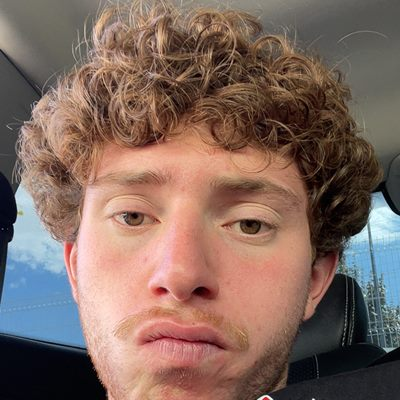
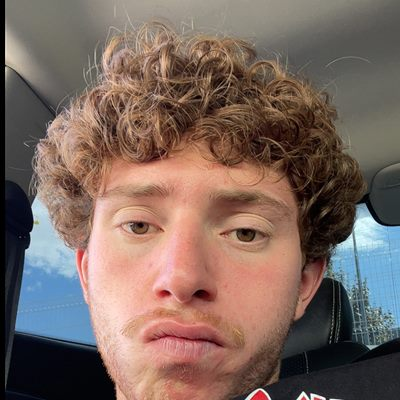
Portrait recadré : menton visible

diff --git a/index.html b/index.html
@@ -30,12 +30,12 @@
   <link rel="icon" href="assets/img/favicon-32.png" sizes="32x32" type="image/png">
   <link rel="apple-touch-icon" href="assets/img/apple-touch-icon.png">
   <link rel="preload" href="assets/fonts/sora-latin-wght-normal.woff2" as="font" type="font/woff2" crossorigin>
-  <link rel="stylesheet" href="assets/css/style.css?v=202610171535">
-  <script src="assets/js/config.js?v=202610171535" defer></script>
-  <script src="assets/js/lang/fr.js?v=202610171535" defer></script>
-  <script src="assets/js/i18n.js?v=202610171535" defer></script>
-  <script src="assets/js/consent.js?v=202610171535" defer></script>
-  <script src="assets/js/main.js?v=202610171535" defer></script>
+  <link rel="stylesheet" href="assets/css/style.css?v=202610171541">
+  <script src="assets/js/config.js?v=202610171541" defer></script>
+  <script src="assets/js/lang/fr.js?v=202610171541" defer></script>
+  <script src="assets/js/i18n.js?v=202610171541" defer></script>
+  <script src="assets/js/consent.js?v=202610171541" defer></script>
+  <script src="assets/js/main.js?v=202610171541" defer></script>
 </head>
 <body data-page="index">
   <a class="skip-link" href="#contenu" data-i18n="skip">Aller au contenu</a>

diff --git a/mentions-legales.html b/mentions-legales.html
@@ -12,12 +12,12 @@
   <link rel="icon" href="assets/img/favicon.svg" type="image/svg+xml">
   <link rel="icon" href="assets/img/favicon-32.png" sizes="32x32" type="image/png">
   <link rel="apple-touch-icon" href="assets/img/apple-touch-icon.png">
-  <link rel="stylesheet" href="assets/css/style.css?v=202610171535">
-  <script src="assets/js/config.js?v=202610171535" defer></script>
-  <script src="assets/js/lang/fr.js?v=202610171535" defer></script>
-  <script src="assets/js/i18n.js?v=202610171535" defer></script>
-  <script src="assets/js/consent.js?v=202610171535" defer></script>
-  <script src="assets/js/main.js?v=202610171535" defer></script>
+  <link rel="stylesheet" href="assets/css/style.css?v=202610171541">
+  <script src="assets/js/config.js?v=202610171541" defer></script>
+  <script src="assets/js/lang/fr.js?v=202610171541" defer></script>
+  <script src="assets/js/i18n.js?v=202610171541" defer></script>
+  <script src="assets/js/consent.js?v=202610171541" defer></script>
+  <script src="assets/js/main.js?v=202610171541" defer></script>
 </head>
 <body data-page="mentions">
   <a class="skip-link" href="#contenu" data-i18n="skip">Aller au contenu</a>

diff --git a/confidentialite.html b/confidentialite.html
@@ -12,12 +12,12 @@
   <link rel="icon" href="assets/img/favicon.svg" type="image/svg+xml">
   <link rel="icon" href="assets/img/favicon-32.png" sizes="32x32" type="image/png">
   <link rel="apple-touch-icon" href="assets/img/apple-touch-icon.png">
-  <link rel="stylesheet" href="assets/css/style.css?v=202610171535">
-  <script src="assets/js/config.js?v=202610171535" defer></script>
-  <script src="assets/js/lang/fr.js?v=202610171535" defer></script>
-  <script src="assets/js/i18n.js?v=202610171535" defer></script>
-  <script src="assets/js/consent.js?v=202610171535" defer></script>
-  <script src="assets/js/main.js?v=202610171535" defer></script>
+  <link rel="stylesheet" href="assets/css/style.css?v=202610171541">
+  <script src="assets/js/config.js?v=202610171541" defer></script>
+  <script src="assets/js/lang/fr.js?v=202610171541" defer></script>
+  <script src="assets/js/i18n.js?v=202610171541" defer></script>
+  <script src="assets/js/consent.js?v=202610171541" defer></script>
+  <script src="assets/js/main.js?v=202610171541" defer></script>
 </head>
 <body data-page="privacy">
   <a class="skip-link" href="#contenu" data-i18n="skip">Aller au contenu</a>

diff --git a/cookies.html b/cookies.html
@@ -12,12 +12,12 @@
   <link rel="icon" href="assets/img/favicon.svg" type="image/svg+xml">
   <link rel="icon" href="assets/img/favicon-32.png" sizes="32x32" type="image/png">
   <link rel="apple-touch-icon" href="assets/img/apple-touch-icon.png">
-  <link rel="stylesheet" href="assets/css/style.css?v=202610171535">
-  <script src="assets/js/config.js?v=202610171535" defer></script>
-  <script src="assets/js/lang/fr.js?v=202610171535" defer></script>
-  <script src="assets/js/i18n.js?v=202610171535" defer></script>
-  <script src="assets/js/consent.js?v=202610171535" defer></script>
-  <script src="assets/js/main.js?v=202610171535" defer></script>
+  <link rel="stylesheet" href="assets/css/style.css?v=202610171541">
+  <script src="assets/js/config.js?v=202610171541" defer></script>
+  <script src="assets/js/lang/fr.js?v=202610171541" defer></script>
+  <script src="assets/js/i18n.js?v=202610171541" defer></script>
+  <script src="assets/js/consent.js?v=202610171541" defer></script>
+  <script src="assets/js/main.js?v=202610171541" defer></script>
 </head>
 <body data-page="cookies">
   <a class="skip-link" href="#contenu" data-i18n="skip">Aller au contenu</a>

diff --git a/cgu.html b/cgu.html
@@ -12,12 +12,12 @@
   <link rel="icon" href="assets/img/favicon.svg" type="image/svg+xml">
   <link rel="icon" href="assets/img/favicon-32.png" sizes="32x32" type="image/png">
   <link rel="apple-touch-icon" href="assets/img/apple-touch-icon.png">
-  <link rel="stylesheet" href="assets/css/style.css?v=202610171535">
-  <script src="assets/js/config.js?v=202610171535" defer></script>
-  <script src="assets/js/lang/fr.js?v=202610171535" defer></script>
-  <script src="assets/js/i18n.js?v=202610171535" defer></script>
-  <script src="assets/js/consent.js?v=202610171535" defer></script>
-  <script src="assets/js/main.js?v=202610171535" defer></script>
+  <link rel="stylesheet" href="assets/css/style.css?v=202610171541">
+  <script src="assets/js/config.js?v=202610171541" defer></script>
+  <script src="assets/js/lang/fr.js?v=202610171541" defer></script>
+  <script src="assets/js/i18n.js?v=202610171541" defer></script>
+  <script src="assets/js/consent.js?v=202610171541" defer></script>
+  <script src="assets/js/main.js?v=202610171541" defer></script>
 </head>
 <body data-page="terms">
   <a class="skip-link" href="#contenu" data-i18n="skip">Aller au contenu</a>

diff --git a/404.html b/404.html
@@ -12,12 +12,12 @@
   <!-- Chemins absolus : cette page peut s'afficher à n'importe quelle adresse du site -->
   <link rel="icon" href="/assets/img/favicon.svg" type="image/svg+xml">
   <link rel="icon" href="/assets/img/favicon-32.png" sizes="32x32" type="image/png">
-  <link rel="stylesheet" href="/assets/css/style.css?v=202610171535">
-  <script src="/assets/js/config.js?v=202610171535" defer></script>
-  <script src="/assets/js/lang/fr.js?v=202610171535" defer></script>
-  <script src="/assets/js/i18n.js?v=202610171535" defer></script>
-  <script src="/assets/js/consent.js?v=202610171535" defer></script>
-  <script src="/assets/js/main.js?v=202610171535" defer></script>
+  <link rel="stylesheet" href="/assets/css/style.css?v=202610171541">
+  <script src="/assets/js/config.js?v=202610171541" defer></script>
+  <script src="/assets/js/lang/fr.js?v=202610171541" defer></script>
+  <script src="/assets/js/i18n.js?v=202610171541" defer></script>
+  <script src="/assets/js/consent.js?v=202610171541" defer></script>
+  <script src="/assets/js/main.js?v=202610171541" defer></script>
 </head>
 <body data-page="notfound">
   <header class="site-header">

diff --git a/confirme.html b/confirme.html
@@ -12,12 +12,12 @@
   <link rel="icon" href="assets/img/favicon.svg" type="image/svg+xml">
   <link rel="icon" href="assets/img/favicon-32.png" sizes="32x32" type="image/png">
   <link rel="apple-touch-icon" href="assets/img/apple-touch-icon.png">
-  <link rel="stylesheet" href="assets/css/style.css?v=202610171535">
-  <script src="assets/js/config.js?v=202610171535" defer></script>
-  <script src="assets/js/lang/fr.js?v=202610171535" defer></script>
-  <script src="assets/js/i18n.js?v=202610171535" defer></script>
-  <script src="assets/js/consent.js?v=202610171535" defer></script>
-  <script src="assets/js/main.js?v=202610171535" defer></script>
+  <link rel="stylesheet" href="assets/css/style.css?v=202610171541">
+  <script src="assets/js/config.js?v=202610171541" defer></script>
+  <script src="assets/js/lang/fr.js?v=202610171541" defer></script>
+  <script src="assets/js/i18n.js?v=202610171541" defer></script>
+  <script src="assets/js/consent.js?v=202610171541" defer></script>
+  <script src="assets/js/main.js?v=202610171541" defer></script>
 </head>
 <body data-page="confirmed">
   <header class="site-header">

diff --git a/merci.html b/merci.html
@@ -12,12 +12,12 @@
   <link rel="icon" href="assets/img/favicon.svg" type="image/svg+xml">
   <link rel="icon" href="assets/img/favicon-32.png" sizes="32x32" type="image/png">
   <link rel="apple-touch-icon" href="assets/img/apple-touch-icon.png">
-  <link rel="stylesheet" href="assets/css/style.css?v=202610171535">
-  <script src="assets/js/config.js?v=202610171535" defer></script>
-  <script src="assets/js/lang/fr.js?v=202610171535" defer></script>
-  <script src="assets/js/i18n.js?v=202610171535" defer></script>
-  <script src="assets/js/consent.js?v=202610171535" defer></script>
-  <script src="assets/js/main.js?v=202610171535" defer></script>
+  <link rel="stylesheet" href="assets/css/style.css?v=202610171541">
+  <script src="assets/js/config.js?v=202610171541" defer></script>
+  <script src="assets/js/lang/fr.js?v=202610171541" defer></script>
+  <script src="assets/js/i18n.js?v=202610171541" defer></script>
+  <script src="assets/js/consent.js?v=202610171541" defer></script>
+  <script src="assets/js/main.js?v=202610171541" defer></script>
 </head>
 <body data-page="thanks">
   <header class="site-header">

diff --git a/assets/js/main.js b/assets/js/main.js
@@ -186,7 +186,7 @@
 
   // ---------- Images (photos / images IA) déclarées dans config.js ----------
   var photos = (window.CICLIFT_CONFIG || {}).photos || {};
-  var PHOTO_VER = "202610171535"; // mis à jour par tools/version.ps1 (anti-cache)
+  var PHOTO_VER = "202610171541"; // mis à jour par tools/version.ps1 (anti-cache)
   function renderPhotos() {
     document.querySelectorAll("[data-photo]").forEach(function (box) {
       var file = photos[box.getAttribute("data-photo")];
